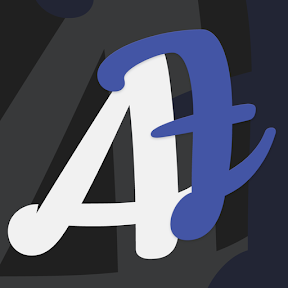
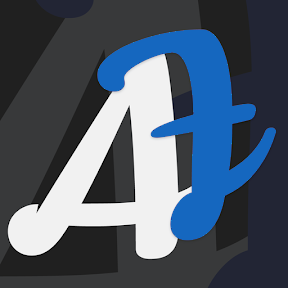
Color changes

Changed region(s): [[0.3125, 0.0938, 0.9688, 0.8438]]

diff --git a/styles/index.css b/styles/index.css
@@ -7,8 +7,13 @@
     margin-bottom: 1.1rem;
 }
 
+.btn {
+    border: .05rem solid #0277BD !important;
+    color: #0277BD;
+}
+
 .bg-primary {
-    background: #4656A0 !important;
+    background: #1565C0 !important;
 }
 
 .bg-primary a:not(.btn) {
@@ -19,18 +24,18 @@
 }
 
 .bg-gray a:not(.btn):not(.docs-logo) {
-    color: #4656A0;
+    color: #1565C0;
     border-bottom: .1rem solid currentColor;
     padding-bottom: .05rem;
     text-decoration: none
 }
 
 .btn.btn-primary {
-    background: #4656A0 !important;
+    background: #1565C0 !important;
 }
 
 .docs-brand {
-    color: #4656A0;
+    color: #1565C0;
     height: 2rem;
     left: 1.5rem;
     position: fixed;
@@ -80,7 +85,7 @@
 }
 
 .section-hero .docs-brand h2 {
-    color: #4656A0
+    color: #1565C0
 }
 
 .section-hero .column {
@@ -125,7 +130,7 @@
 }
 
 .bg-gray .card .card-title {
-    color: #4656A0;
+    color: #1565C0;
 }
 
 .grid-hero {
